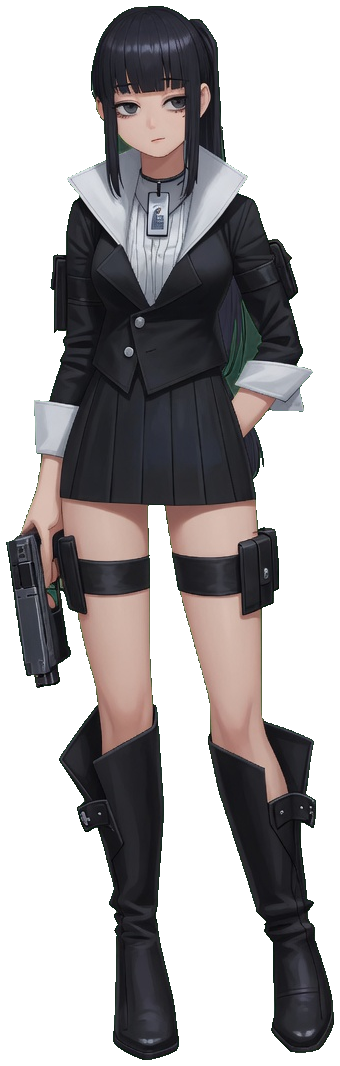
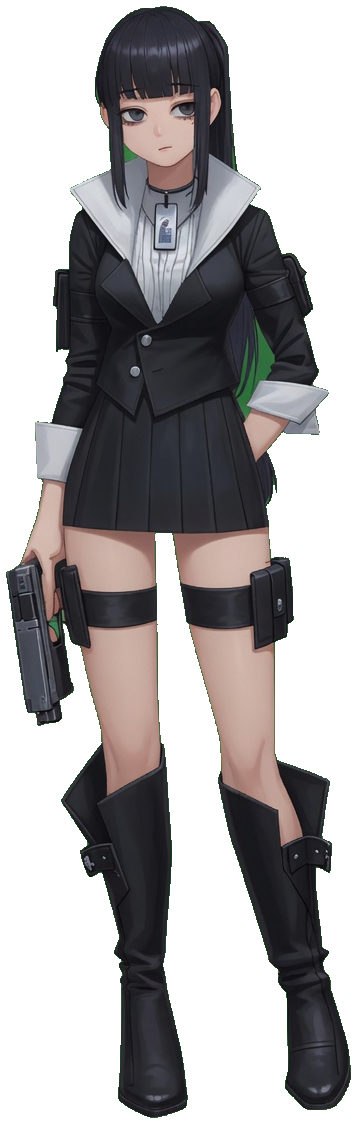
Hero: 3/4 view matching sketch instead of side profile

diff --git a/index.html b/index.html
@@ -2076,7 +2076,7 @@
       ctx.fillStyle = 'rgba(0,0,0,0.45)';
       ctx.beginPath(); ctx.ellipse(px+10, groundY+3, 30, 7, 0, 0, Math.PI*2); ctx.fill();
       ctx.translate(kick, 0);
-      drawSprite(SPR.player, px + 28, groundY + 2, 128, 0.36);
+      drawSprite(SPR.player, px + 6, groundY + 2, 132, 0.5);
       if(flashT > 0){
         const m = getPlayerMuzzle(px, groundY);
         const r = (hasSniper ? 22 : 16) * flashT + 5;
